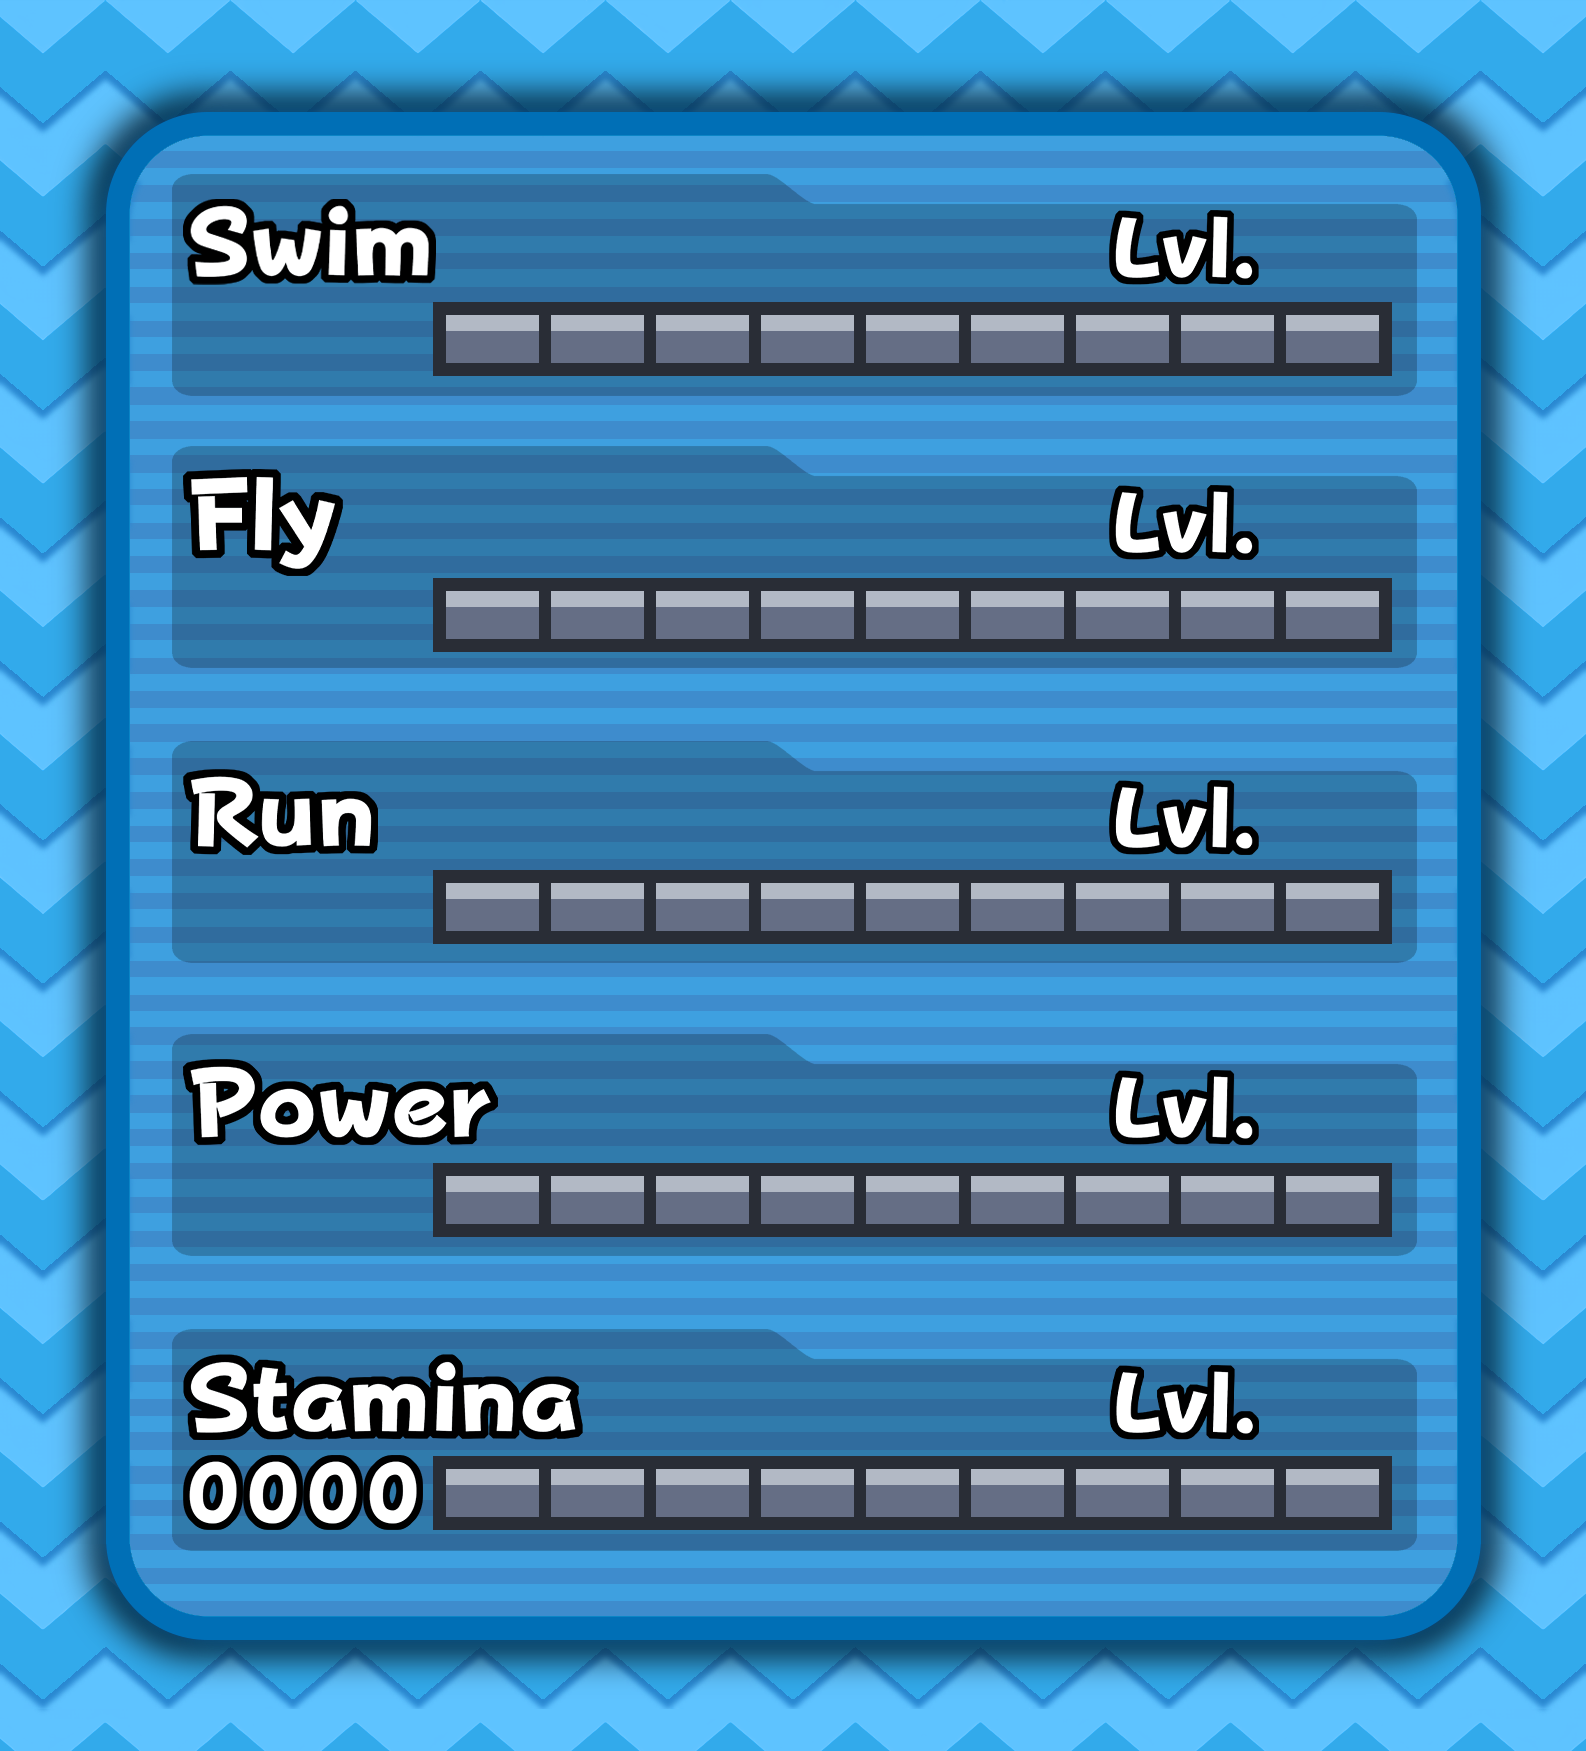
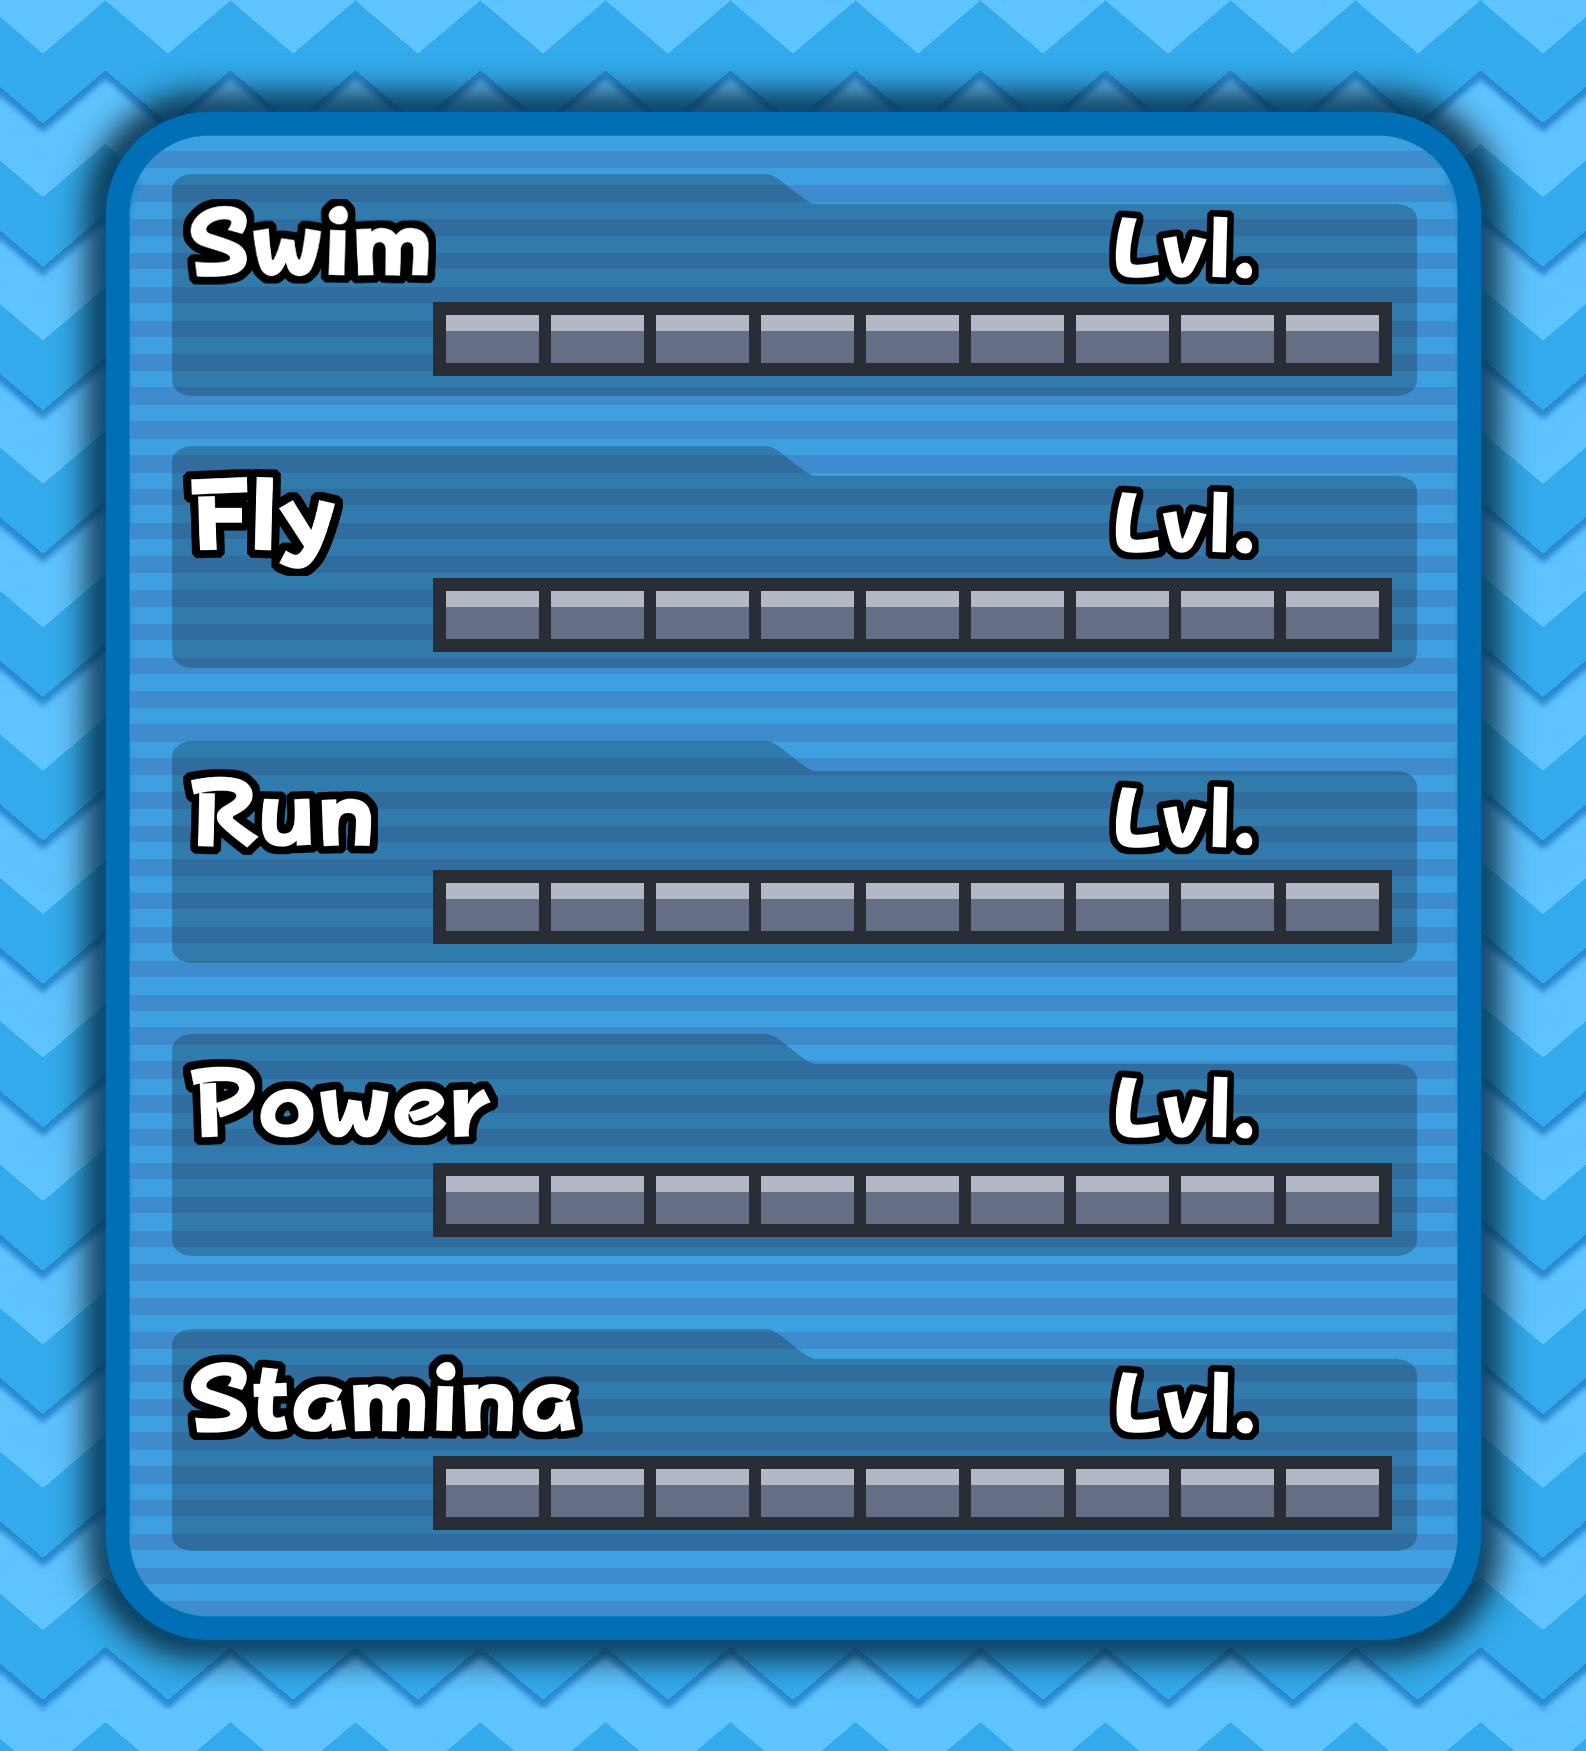
Removed mind stat and corresponding fruit. Fixed some graphics.

Changed region(s): [[0.0927, 0.8327, 0.2781, 0.8943]]

diff --git a/src/cogs/chao.py b/src/cogs/chao.py
@@ -74,13 +74,14 @@ class Chao(commands.Cog):
         self.ICON_PATH = os.path.join(self.assets_dir, 'graphics/icons/Stats.png')
         self.NEUTRAL_PATH = os.path.join(self.assets_dir, 'chao/normal/neutral/neutral_normal_1.png')
         self.BACKGROUND_PATH = os.path.join(self.assets_dir, 'graphics/thumbnails/neutral_background.png')
-        self.TICK_POSITIONS = [(446, y) for y in [1176, 315, 1747, 591, 883, 1469]]
+        # Adjusted TICK_POSITIONS to remove the "mind" stat
+        self.TICK_POSITIONS = [(446, y) for y in [1176, 315, 591, 883, 1469]]
         self.EYES_DIR = os.path.join(self.assets_dir, 'face', 'eyes')
         self.MOUTH_DIR = os.path.join(self.assets_dir, 'face', 'mouth')
         emojis = "🍏🍎🍐🍊🍋🍌🍉🍇🍓🫐🍈🍒🍑🥭🍍"
         names = [
             "Garden Nut", "Hero Fruit", "Dark Fruit", "Round Fruit", "Triangle Fruit",
-            "Heart Fruit", "Square Fruit", "Chao Fruit", "Smart Fruit", "Power Fruit",
+            "Heart Fruit", "Square Fruit", "Chao Fruit", "Power Fruit",
             "Run Fruit", "Swim Fruit", "Fly Fruit", "Tasty Fruit", "Strange Mushroom"
         ]
         self.fruits = [{"emoji": e, "name": n} for e, n in zip(emojis, names)]
@@ -152,10 +153,10 @@ class Chao(commands.Cog):
             'birth_date': datetime.now().date().strftime("%Y-%m-%d"),
             'hp_ticks': 0,
             'Form': '1',
-            **{f"{stat}_ticks": 0 for stat in ['power', 'swim', 'stamina', 'fly', 'run', 'mind']},
-            **{f"{stat}_level": 0 for stat in ['power', 'swim', 'stamina', 'fly', 'run', 'mind']},
-            **{f"{stat}_exp": 0 for stat in ['swim', 'fly', 'run', 'power', 'mind', 'stamina']},
-            **{f"{stat}_grade": 'D' for stat in ['power', 'swim', 'stamina', 'fly', 'run', 'mind']},
+            **{f"{stat}_ticks": 0 for stat in ['power', 'swim', 'stamina', 'fly', 'run']},
+            **{f"{stat}_level": 0 for stat in ['power', 'swim', 'stamina', 'fly', 'run']},
+            **{f"{stat}_exp": 0 for stat in ['swim', 'fly', 'run', 'power', 'stamina']},
+            **{f"{stat}_grade": 'D' for stat in ['power', 'swim', 'stamina', 'fly', 'run']},
             'evolved': 0,
             'Type': 'Normal',
             'swim_fly': 0,
@@ -192,7 +193,7 @@ class Chao(commands.Cog):
         latest_stats = chao_df.iloc[-1]
         chao_dir = self.data_utils.get_path(guild_id, user_id, 'chao_data', chao_name)
         thumbnail_path = os.path.join(chao_dir, f'{chao_name}_thumbnail.png')
-        stat_levels = {stat: latest_stats[f'{stat}_level'] for stat in ['power', 'swim', 'stamina', 'fly', 'run', 'mind']}
+        stat_levels = {stat: latest_stats[f'{stat}_level'] for stat in ['power', 'swim', 'stamina', 'fly', 'run']}
         max_level = max(stat_levels.values())
         dark_hero = latest_stats['dark_hero']
         current_form = latest_stats.get('Form', "1")
@@ -343,13 +344,13 @@ class Chao(commands.Cog):
         stats_image_path = os.path.join(chao_dir, f'{chao_name}_stats.png')
         self.image_utils.paste_image(
             self.TEMPLATE_PATH, self.OVERLAY_PATH, stats_image_path, self.TICK_POSITIONS,
-            chao_stats["power_ticks"], chao_stats["swim_ticks"], chao_stats["stamina_ticks"],
-            chao_stats["fly_ticks"], chao_stats["run_ticks"], chao_stats["mind_ticks"],
-            chao_stats["power_level"], chao_stats["swim_level"], chao_stats["stamina_level"],
-            chao_stats["fly_level"], chao_stats["run_level"], chao_stats["mind_level"],
+            chao_stats["power_ticks"], chao_stats["swim_ticks"], chao_stats["fly_ticks"],
+            chao_stats["run_ticks"], chao_stats["stamina_ticks"],
+            chao_stats["power_level"], chao_stats["swim_level"], chao_stats["fly_level"],
+            chao_stats["run_level"], chao_stats["stamina_level"],
             chao_stats.get("swim_exp", 0), chao_stats.get("fly_exp", 0),
             chao_stats.get("run_exp", 0), chao_stats.get("power_exp", 0),
-            chao_stats.get("mind_exp", 0), chao_stats.get("stamina_exp", 0)
+            chao_stats.get("stamina_exp", 0)
         )
         embed = discord.Embed(color=discord.Color.blue()).set_author(name=f"{chao_name}'s Stats", icon_url="attachment://Stats.png")
         embed.add_field(name="Type", value=chao_type_display, inline=True)
@@ -491,13 +492,13 @@ class StatsView(View):
             self.OVERLAY_PATH,
             image_path,
             self.tick_positions,
-            chao_to_view["power_ticks"], chao_to_view["swim_ticks"], chao_to_view["stamina_ticks"],
-            chao_to_view["fly_ticks"], chao_to_view["run_ticks"], chao_to_view["mind_ticks"],
-            chao_to_view["power_level"], chao_to_view["swim_level"], chao_to_view["stamina_level"],
-            chao_to_view["fly_level"], chao_to_view["run_level"], chao_to_view["mind_level"],
+            chao_to_view["power_ticks"], chao_to_view["swim_ticks"], chao_to_view["fly_ticks"],
+            chao_to_view["run_ticks"], chao_to_view["stamina_ticks"],
+            chao_to_view["power_level"], chao_to_view["swim_level"], chao_to_view["fly_level"],
+            chao_to_view["run_level"], chao_to_view["stamina_level"],
             chao_to_view.get("swim_exp", 0), chao_to_view.get("fly_exp", 0),
             chao_to_view.get("run_exp", 0), chao_to_view.get("power_exp", 0),
-            chao_to_view.get("mind_exp", 0), chao_to_view.get("stamina_exp", 0)
+            chao_to_view.get("stamina_exp", 0)
         )
 
         embed = discord.Embed(color=discord.Color.blue()).set_author(name=f"{self.chao_name}'s Stats", icon_url="attachment://Stats.png")

diff --git a/src/cogs/image_utils.py b/src/cogs/image_utils.py
@@ -10,11 +10,12 @@ class ImageUtils(commands.Cog):
         self.TICK_SPACING = 105
         self.LEVEL_POSITION_OFFSET = (826, -106)
         self.LEVEL_SPACING = 60
+        # Adjusted EXP_POSITIONS to remove the "mind" stat and shift "stamina" up
         self.EXP_POSITIONS = {
             stat: [(183 + i * 60, y) for i in range(4)]
             for stat, y in zip(
-                ['swim', 'fly', 'run', 'power', 'mind', 'stamina'],
-                [302, 576, 868, 1161, 1454, 1732]
+                ['swim', 'fly', 'run', 'power', 'stamina'],
+                [302, 576, 868, 1161, 1454]
             )
         }
         self.num_images = {
@@ -52,20 +53,20 @@ class ImageUtils(commands.Cog):
             overlay = overlay.convert("RGBA")
             # Paste EXP numbers
             for stat, exp in zip(
-                    ["swim", "fly", "run", "power", "mind", "stamina"],
-                    stats[-6:]):
+                    ["swim", "fly", "run", "power", "stamina"],
+                    stats[-5:]):  # Adjusted for 5 stats
                 exp_str = f"{int(exp):04d}"
                 for pos, digit in zip(
                         self.EXP_POSITIONS[stat], exp_str):
                     template.paste(
                         self.num_images[digit], pos, self.num_images[digit])
             # Paste ticks
-            for pos, ticks in zip(tick_positions, stats[:6]):
+            for pos, ticks in zip(tick_positions, stats[:5]):  # Adjusted for 5 stats
                 for i in range(int(ticks)):
                     tick_pos = (pos[0] + i * self.TICK_SPACING, pos[1])
                     template.paste(overlay, tick_pos, overlay)
             # Paste levels
-            for pos, level in zip(tick_positions, stats[6:12]):
+            for pos, level in zip(tick_positions, stats[5:10]):  # Adjusted indices
                 tens = int(level) // 10
                 ones = int(level) % 10
                 x_offset, y_offset = self.LEVEL_POSITION_OFFSET
